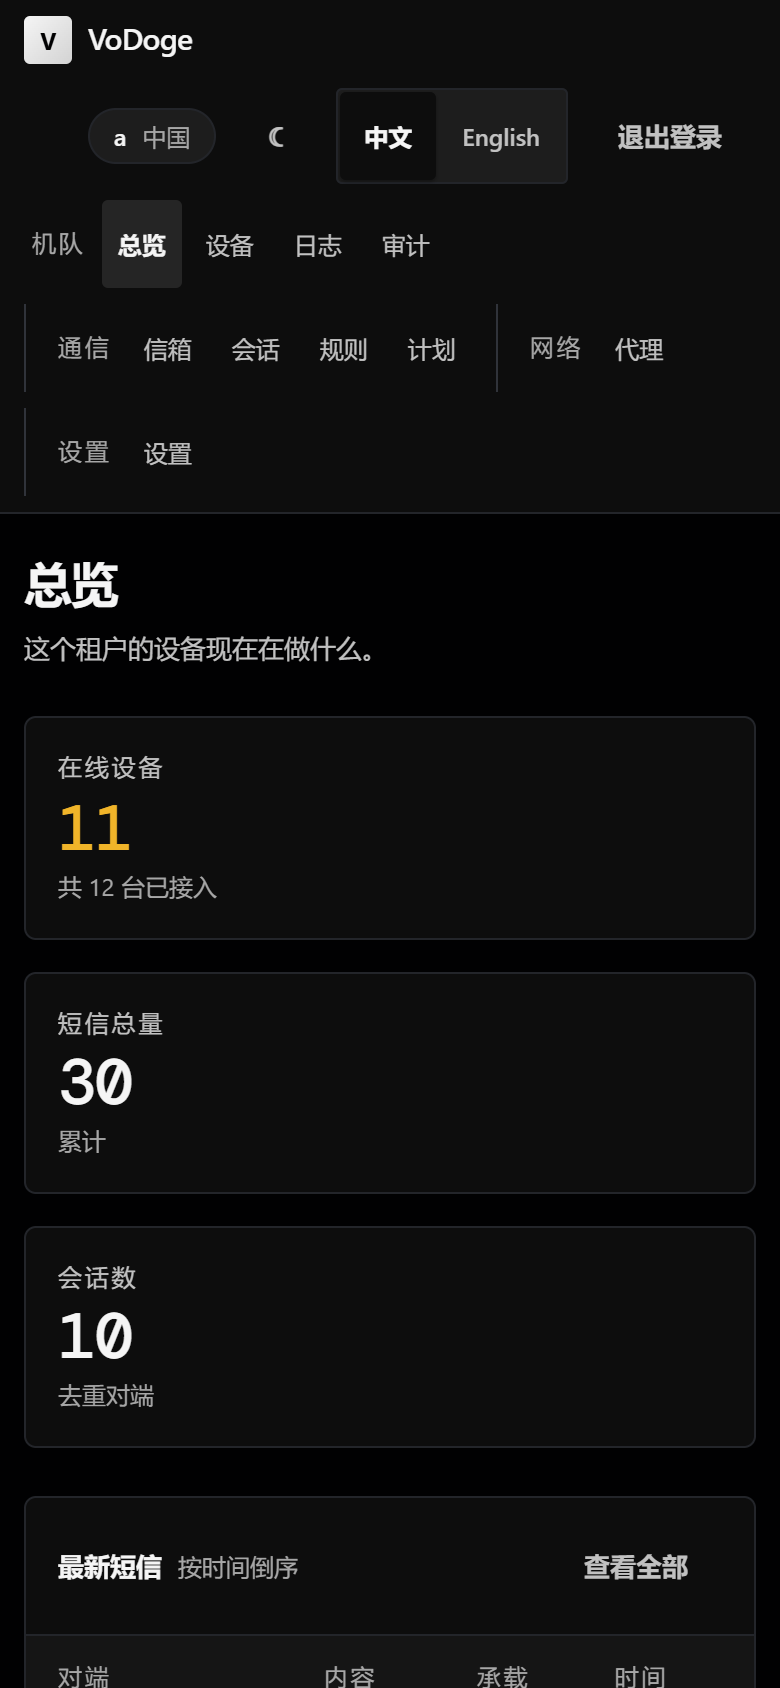
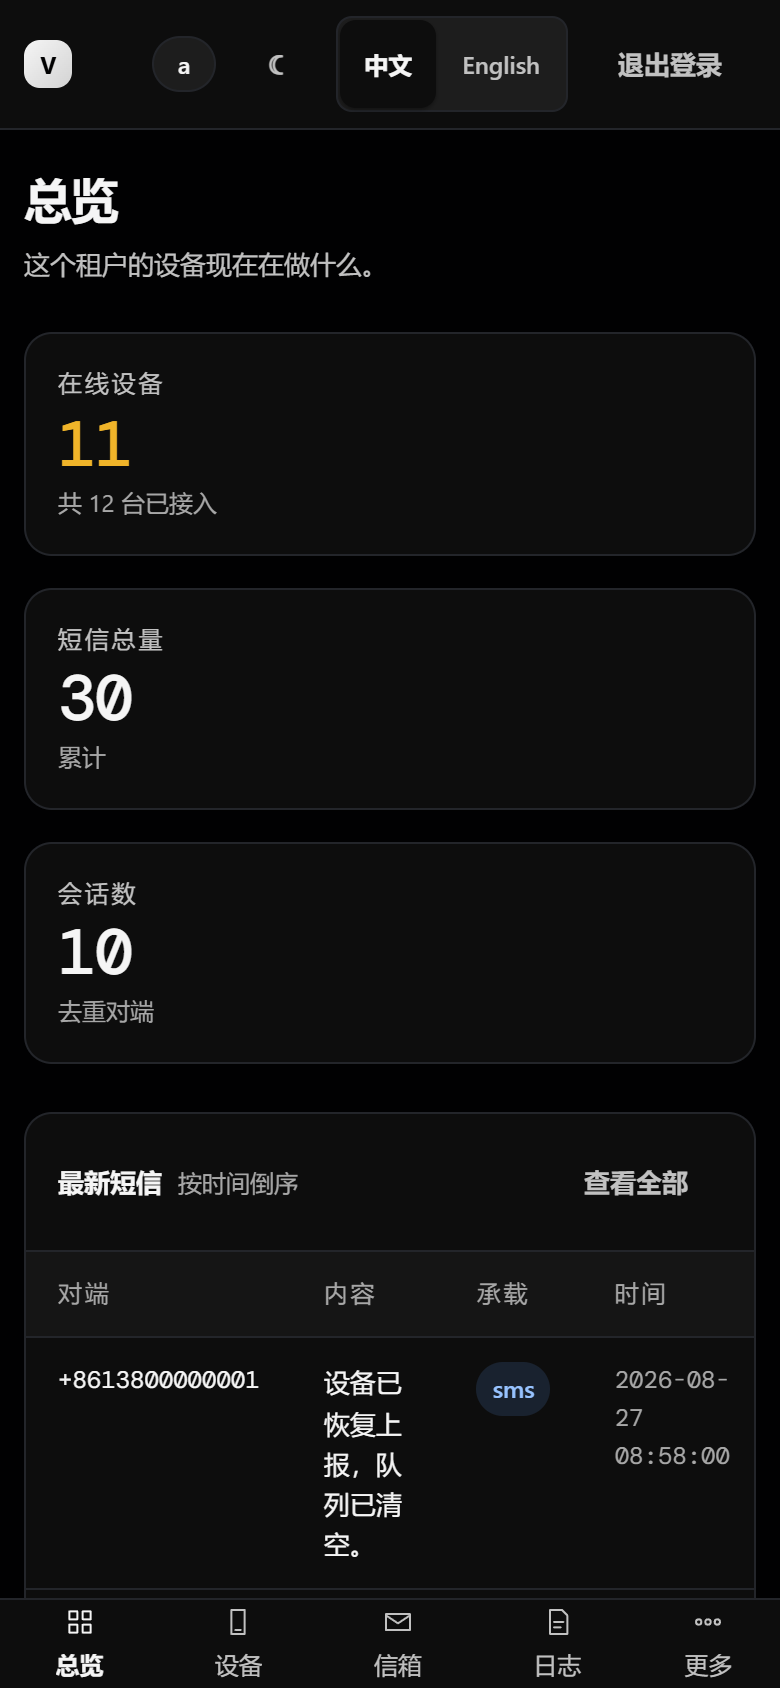
SN-T016: recapture the install screenshots from the chrome this tree renders
The two PNGs in the manifest's `screenshots` were taken at 5edf5a3, before
mobile-nav.tsx and sidebar.tsx existed at all -- the phone frame could not have
shown a bar whose source file had not been written. T008 (focus ring) and T012
(fifth-cell width) have since landed, so the frames are shot on this tree.

Captured from the real overview page through the standalone server, asserted on
four axes: which tree (the built stylesheet's content hash), which page (200 and
a populated table -- without VODOGE_BASE_DOMAIN the middleware 404s and still
serves this tree's stylesheet), which product (exactly one page target, attached
by id, every command carrying its sessionId; the page's own location.href; and
the document's socket remotePort), and -- new -- that the styles actually took:
CSS rules in effect, the stylesheet's response status, the painted body
background, and the computed `position`/`display` of the bar and the rail read
off the elements. A class attribute is not a computed style: on a stylesheet-
less page the bar's class list still reads "fixed inset-x-0 bottom-0" in full
while it computes to `static` down in the flow.

Three baselines move with the layout, and all three are regenerated here rather
than relaxed:

  * CAPTURED_FROM -- both PNG hashes and the chrome digest of the 28-file
    closure, re-read at 61659b2.
  * TOP_PROFILE -- the shell header sits differently now: narrow 29/88/16 ->
    54/16/16, wide 26/8/8 -> 18/0/0.
[…]

diff --git a/apps/console/lib/pwa.test.ts b/apps/console/lib/pwa.test.ts
@@ -1743,21 +1743,46 @@ test("each screenshot is the page at its own width, not a corner of a wider one"
 
     // And the other direction. The content column is padded by an equal gutter
     // on both sides, so the commonest left/right pair in the frame is
-    // symmetric — 24|24 on 713 of the narrow rows and 523 of the wide ones.
-    // Lay the page out wider than the frame and the right gutter is gone; lay
-    // it out narrower and the right gutter is enormous. Either way this pair
-    // stops matching, which is what a crop looks like from the pixels.
+    // symmetric. Lay the page out wider than the frame and the right gutter is
+    // gone; lay it out narrower and the right gutter is enormous. Either way
+    // this pair stops matching, which is what a crop looks like from the
+    // pixels.
+    //
+    // 🔴 The gutter is measured from WHERE THE CANVAS STARTS, not from the
+    // frame edge, and that is not a loosening — it is what keeps this
+    // answerable at all. The original scan began at x=0 and dropped any row
+    // whose ink reached the left edge (`first <= 0`). From `md` up this
+    // console now mounts a full-height rail AT x=0, so on the wide frame every
+    // single row was dropped: the histogram came back empty and the test
+    // failed with "only 0 rows share a gutter pair (none)" against a perfectly
+    // good capture. A criterion no correct frame can satisfy manufactures a
+    // false red, and this one had become one the moment the rail landed.
+    //
+    // Starting at the first canvas pixel puts the measurement back on the
+    // content column wherever that column begins. On a frame with no rail the
+    // first canvas pixel is x=0 and this is byte-for-byte the original
+    // computation, which is why the narrow frame's numbers do not move.
     const pairs = new Map<string, number>();
     for (let y = 0; y < image.height; y++) {
+      let canvasFrom = -1;
+      for (let x = 0; x < image.width; x++) {
+        if (isCanvas(x, y)) {
+          canvasFrom = x;
+          break;
+        }
+      }
+      // A row with no canvas at all (inside the bar, inside the header band)
+      // has no content column to measure, exactly as before.
+      if (canvasFrom < 0) continue;
       let first = -1;
       let last = -1;
-      for (let x = 0; x < image.width; x++) {
+      for (let x = canvasFrom; x < image.width; x++) {
         if (isCanvas(x, y)) continue;
         if (first < 0) first = x;
         last = x;
       }
-      if (first <= 0 || last >= image.width - 1) continue;
-      const key = `${first}|${image.width - 1 - last}`;
+      if (first < 0 || last >= image.width - 1) continue;
+      const key = `${first - canvasFrom}|${image.width - 1 - last}`;
       pairs.set(key, (pairs.get(key) ?? 0) + 1);
     }
     const [modal, rows] = [...pairs.entries()].sort((a, b) => b[1] - a[1])[0] ?? ["none", 0];
@@ -1801,8 +1826,8 @@ test("each screenshot is the page at its own width, not a corner of a wider one"
  * offsets, so all three are load-bearing.
  */
 const TOP_PROFILE: Record<string, { fg: number; line: number; content: number }> = {
-  "/screenshot-mobile.png": { fg: 29, line: 88, content: 16 },
-  "/screenshot-wide.png": { fg: 26, line: 8, content: 8 },
+  "/screenshot-mobile.png": { fg: 54, line: 16, content: 16 },
+  "/screenshot-wide.png": { fg: 18, line: 0, content: 0 },
 };
 
 test("each screenshot starts at the top of the document, not part way down it", () => {
@@ -2309,11 +2334,16 @@ function chromeDigest(files: string[]): string {
  * note that guard B will not accept it for anything structural.
  */
 const CAPTURED_FROM = {
-  commit: "5edf5a3",
[1 lines of base64/hex data omitted]
+  // The commit whose CHROME these frames show. The PNGs themselves are written
+  // by the commit that carries this stamp, which cannot name its own hash; this
+  // one is what `git archive <commit> apps/console` has to be run against to
+  // reproduce the digest below, and it is exact because the recapture commit
+  // touches no file in the closure (it changes only this test and public/).
+  commit: "61659b2",
[1 lines of base64/hex data omitted]
   shots: {
[4 lines of base64/hex data omitted]
   } as Record<string, string>,
 };
 
